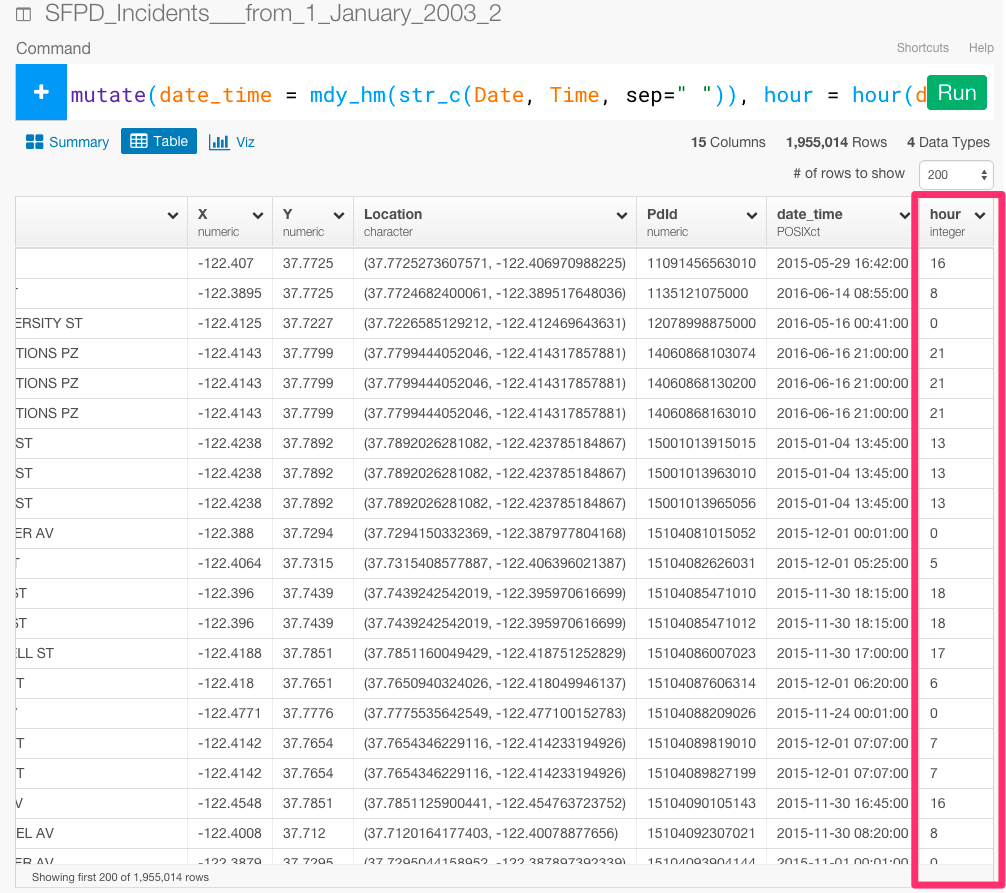
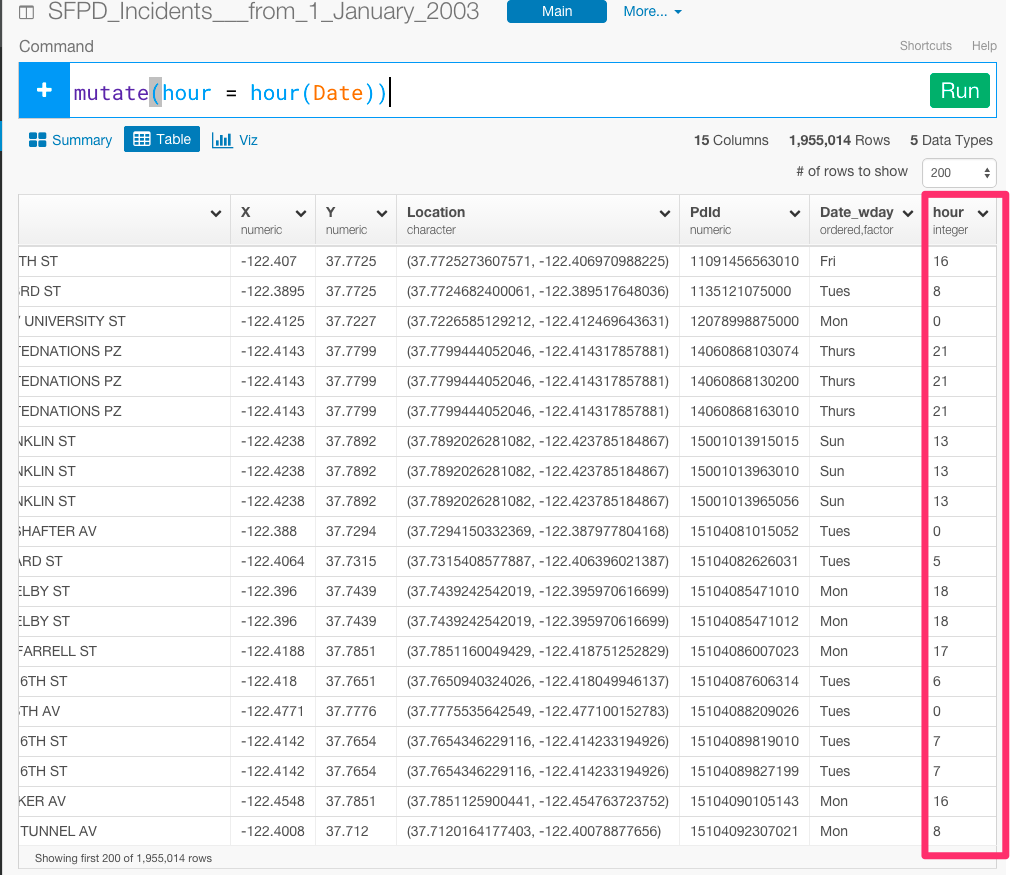
fix

diff --git a/articles/comparing-to-Periscope.md b/articles/comparing-to-Periscope.md
@@ -56,9 +56,7 @@ Exploratoryだと、ボタン１つでインポートすることができます
 
 デフォルトでは、characterになっているのに、SQLのextract関数を使って、曜日や時間を引き出せているということは、だれかが、データをインポートする段階で、めんどくさいことをしてDate列のデータタイプをDateに変えてるんですよね。でも残念ながら、その部分は彼らは書いていません。SQLだと実はそこがものすごく大変なんです。大変だからこそブログで書かなかったんでしょうね笑。
 
-一方、Rの場合は、
-
-mdy_hm関数を使うと、たった1行で、データ・タイプをcharacterからDateに変えることができます。
+一方、Rの場合は、mdy_hm関数を使うと、たった1行で、データ・タイプをcharacterからDateに変えることができます。
 
 `
 mutate(Date = mdy_hm(str_c(Date, Time, sep=" "))
@@ -66,7 +64,11 @@ mutate(Date = mdy_hm(str_c(Date, Time, sep=" "))
 
 ![](images/mdy-sf2.png)
 
-次に、wday関数を使って、Dateから曜日を抽出したいと思います。
+
+##どの曜日に犯罪が多いか
+
+
+wday関数を使って、Dateから曜日を抽出しすることができます。
 
 `
 mutate(Date_wday = wday(Date, label = TRUE))
@@ -74,20 +76,12 @@ mutate(Date_wday = wday(Date, label = TRUE))
 
 ![](images/wday-sf.png)
 
-「どの曜日が犯罪件数が多いのか」を計算するために、Date_wdayをグルーピングします。
+
+次に、count関数を使うと、曜日ごとの犯罪件数を計算することができます。
 
 `
-group_by(Date_wday)
+count(Date_wday)
 `
-![](images/wday-grouping.png)
-
-そして、n関数を使って、犯罪件数を計算します。
-
-`
-summarize(numreports = n())
-`
-
-
 
 ![](images/wday-n.png)
 
@@ -95,42 +89,29 @@ summarize(numreports = n())
 どうやら金曜日が一番多いみたいですね。
 
 
-Periscope Data社はSQLを使って、このように分析しています。どちらが直感的でシンプルかは一目瞭然ですよね。
-
-
-
 
 ##どの時間帯に犯罪が多いか
 
-これから、どの時間帯に犯罪が多いかを見ていきたいと思います。
-
-![](images/hour-time.png)
+Periscope Data社のブログのように、どの時間帯に犯罪が多いかを見ていきたいと思います。
 
 hour関数を使って、hourデータを抽出します。
 
 `
-hour = hour(date_time))
+mutate(hour = hour(Date))
 `
 
 ![](images/hour-sql.png)
 
-どの時間帯に犯罪が多いかを計算するために、Hourをグルーピングします。
 
-`
-group_by(hour)
-`
-
-![](images/group-hour.png)
-
-
-`
-summarize(numreports = n())
-`
+これも、count関数一発で、時間帯ごとの犯罪件数を計算することができます。
 
 ![](images/hour-time-sf.png)
 
 
 午後の5時から6時にかけてが一番多いみたいですね。
+
+
+一番最初に見せたPeriscope Data社のSQLと比較すると、どちらがシンプルで直感的なのかは一目瞭然ですよね。
 
 
 ##最も犯罪件数が多い月日はいつか？
